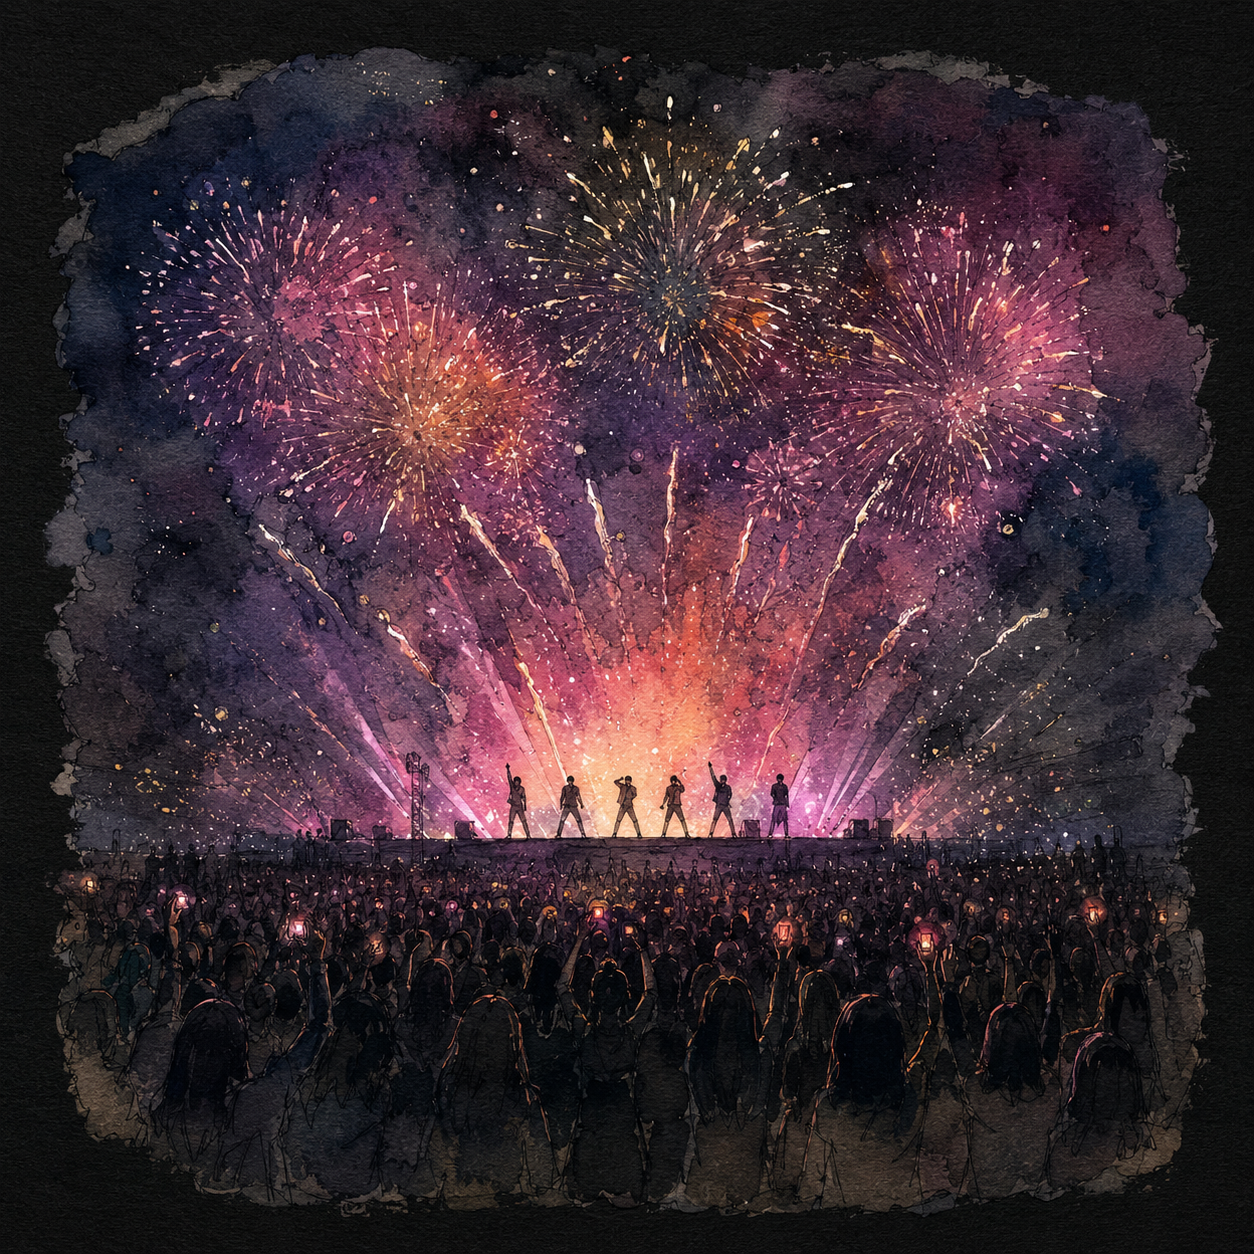
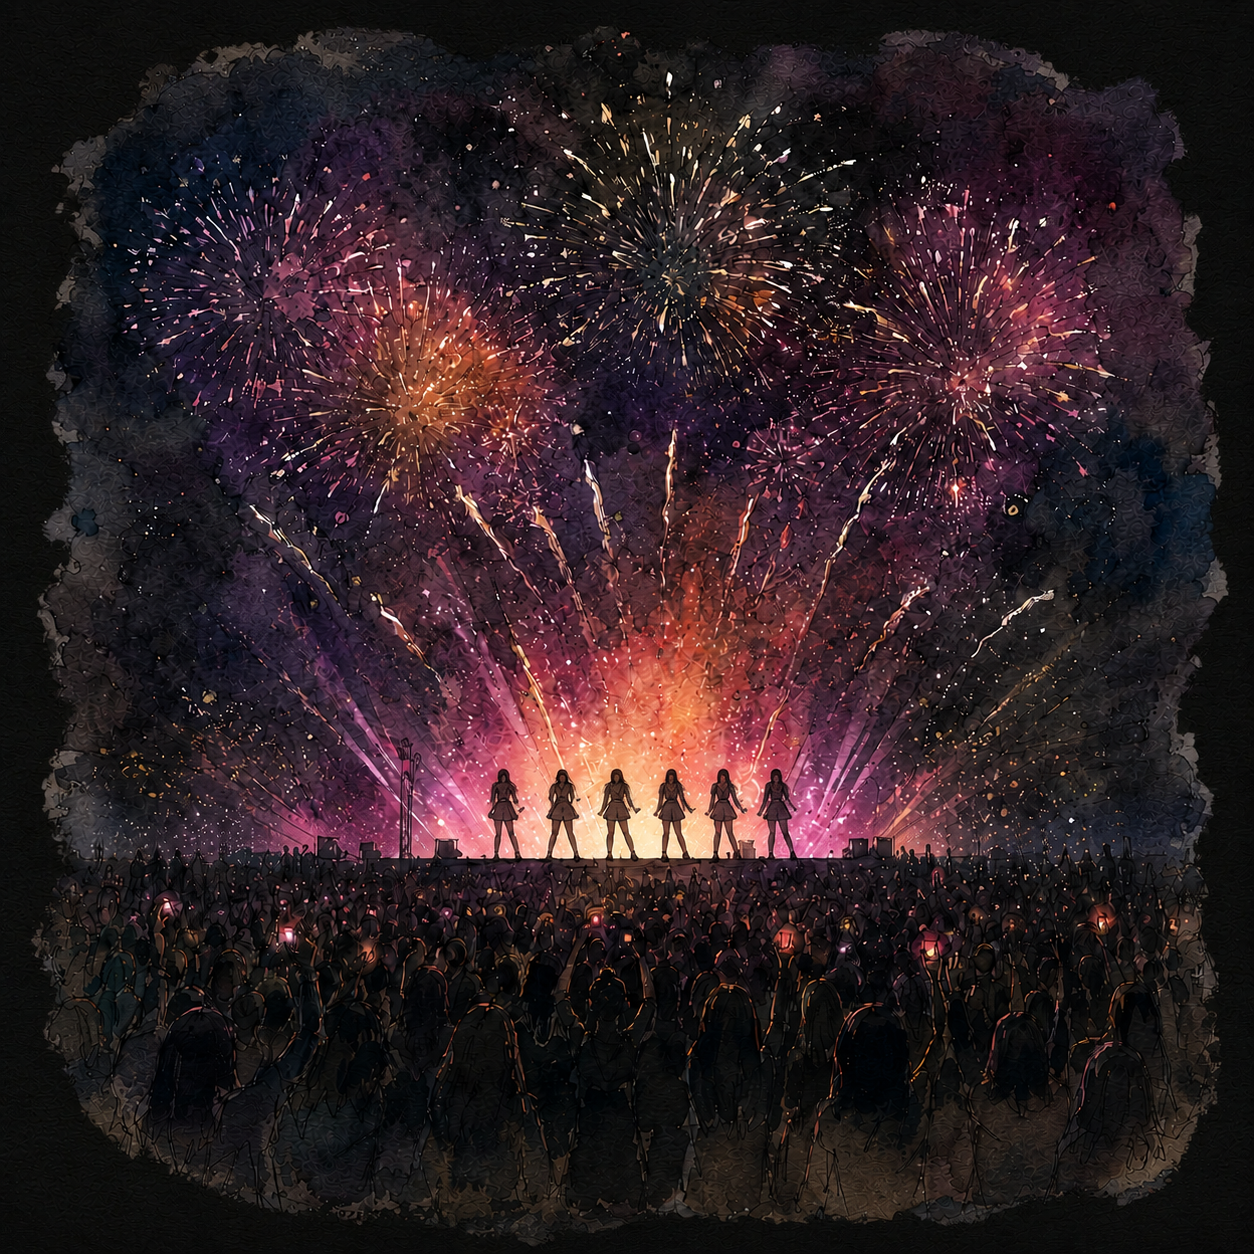
updated

diff --git a/_posts/2026-07-05-ive-part4-dominate.md b/_posts/2026-07-05-ive-part4-dominate.md
@@ -1,0 +1,260 @@
+---
+title: "IVE Part 4 — Rebel Heart: The Empire Builds"
+date: 2026-07-05
+categories: [K-Pop]
+tags: [k-pop, ive, dive, rebel-heart, ive-empathy, ive-secret, revive-plus, bang-bang, blackhole, daesang, show-what-i-am, wonyoung, yujin]
+description: "2025 was IVE's year of total domination — Rebel Heart swept every daesang in sight, album sales crossed 13 million, and 2026 brought Revive+, a second world tour, and an empire still growing. This is IVE at full power."
+image: /assets/img/posts/ive-part4-title.jpg
+featured: false
+---
+
+On January 13, 2025, IVE released a song called "Rebel Heart."
+
+Within days, it topped every major real-time chart in South Korea — their fifth Perfect All-Kill. By the end of the year, it had won Song of the Year at the Asia Artist Awards. It had won Global Trend Song at the MAMA Awards. It had been named one of Billboard's 25 Best K-Pop Songs of 2025.
+
+Then IVE released a second EP. Then a second studio album. Then launched a second world tour. Then announced a fan concert series.
+
+2025 and 2026 weren't a victory lap. They were an expansion.
+
+> 📌 **This is Part 4 of a 4-part IVE series.**
+> - [Part 1 — I Have Everything: The Origin Story](/posts/ive-part1-origin/)
+> - [Part 2 — Eleven Was Just the Beginning](/posts/ive-part2-rise/)
+> - [Part 3 — I Am Who I Am: The Artist Era](/posts/ive-part3-artist/)
+> - **Part 4 — Rebel Heart: The Empire Builds** ← you are here
+
+---
+
+## 🔥 "Rebel Heart" — The Song That Defined 2025 (January 13, 2025)
+
+![IVE Rebel Heart award ceremony atmosphere](/assets/img/posts/ive-part4-rebelheart.jpg)
+*"Rebel Heart" became IVE's most decorated single since "Love Dive" — sweeping year-end ceremonies and topping Billboard's K-pop best-of lists.*
+
+<cite index="24-1">On February 3, 2025, IVE released their third extended play *Ive Empathy*, supported by two singles: "Rebel Heart," which was pre-released on January 13, and "Attitude," which was released alongside the full EP.</cite>
+
+**"Rebel Heart"** is IVE at their most cinematic. Where "Love Dive" was fluid and seductive, and "I Am" was declarative and uplifting, "Rebel Heart" arrives with a darker, more complex energy — the sound of someone who has already proven themselves and is now choosing, freely, what comes next. The choreography is IVE's most ambitious to date: large-scale formations, dynamic spatial use, and a visual storytelling quality that made it one of 2025's most discussed performance pieces.
+
+<cite index="29-1">The song topped all real-time charts in South Korea and became their fifth song to achieve a Perfect All-Kill.</cite>
+
+Companion single **"Attitude"** also charted within the top 10 of the Circle Digital Chart — and collected multiple music show wins of its own, giving IVE two simultaneous charting singles in early 2025.
+
+### The *Ive Empathy* EP
+
+<cite index="24-1">*Ive Empathy* peaked at number 1 of the Circle Album Chart, making it their sixth album to reach number one and their fifth album to reach a million copies.</cite>
+
+Six albums. Six chart-toppers. All million-sellers. In three and a half years.
+
+[**▶ Watch IVE 'Rebel Heart' MV on YouTube**](https://www.youtube.com/results?search_query=IVE+Rebel+Heart+Official+MV)
+
+---
+
+## 🎪 Lollapalooza Berlin & Paris — Two Cities, One Historic Year (July 2025)
+
+Building on their 2024 Chicago Lollapalooza debut, IVE returned to the festival in 2025 — this time in Europe.
+
+<cite index="16-1">On July 12, IVE became the first K-pop girl group to perform live at the Berlin edition of the Lollapalooza music festival. The group went on to set another milestone by performing at the Paris edition of the festival on July 20, becoming the first K-pop girl group to perform at Lollapalooza in two consecutive years across three different cities.</cite>
+
+Chicago → Berlin → Paris. Three different cities. Three different audiences. The same result each time: a Western festival crowd that hadn't necessarily come for K-pop, won over.
+
+---
+
+## 📀 *Ive Secret* EP — The Second 2025 Release (August 2025)
+
+IVE didn't stop after "Rebel Heart."
+
+<cite index="16-1">On August 25, IVE released their fourth extended play *Ive Secret*, with the lead single "XOXZ." Upon release, the album peaked at number 1 of the Circle Album Chart, making it the group's seventh album to reach number one and their sixth million-seller.</cite>
+
+Seven albums. All #1. All million-sellers.
+
+In a single year — 2025 — IVE released two EPs, both peaked at #1, both certified million-sellers, and performed at Lollapalooza on two continents. That pace of output, at that level of quality, is what separated IVE from the rest of the 4th-generation field.
+
+---
+
+## 🏆 The 2025 Awards Sweep: "Rebel Heart" Dominates
+
+The year-end ceremony season of 2025 was IVE's most decorated since the "Love Dive" era of 2022.
+
+### Asia Artist Awards (AAA) — December 2025
+
+<cite index="25-1">IVE captured Song of the Year (Daesang) for "Rebel Heart."</cite>
+
+<cite index="27-1">Member Jang Won-young collected three individual awards: AAA Asia Celebrity (Singer), AAA Spotlight, and AAA Fabulous.</cite>
+
+### MAMA Awards — November 2025
+
+<cite index="31-1">IVE won Favorite Global Performer, Favorite Female Group, and Global Trend Song for "Rebel Heart."</cite>
+
+A triple crown at MAMA — three awards at the industry's most-watched ceremony — for a single promotional cycle.
+
+### Other Major 2025 Ceremony Wins
+
+| Ceremony | Award |
+|:---|:---|
+| 🏆 Asia Artist Awards | Song of the Year (Daesang) — "Rebel Heart" |
+| 🏆 Korea Grand Music Awards | Grand Song (Daesang) — "Rebel Heart" |
+| 🏆 K-World Dream Awards | K-World Best Artist (Daesang) |
+| MAMA Awards | Global Trend Song — "Rebel Heart" |
+| MAMA Awards | Favorite Female Group |
+| MAMA Awards | Favorite Global Performer |
+| The Fact Music Awards | Sound of the Year / Artist of the Year |
+| Golden Disc Awards | Best Digital Song / Best Album |
+
+<cite index="26-1">They didn't just meet expectations. They crushed them, picking up major honors that cemented their legacy, including two massive Daesangs for their powerful music.</cite>
+
+---
+
+## 📊 The Numbers: IVE's Full Cumulative Record (End of 2025)
+
+By the close of 2025, four years into their career, IVE's cumulative record looked like this:
+
+| Metric | Figure |
+|:---|:---|
+| Total album sales | 13M+ copies |
+| #1 albums (Circle) | 7 out of 7 releases |
+| Million-seller albums | 6 |
+| Perfect All-Kills | 5 |
+| Music show wins | 100+ |
+| Daesang wins (total) | 8+ across career |
+| Lollapalooza appearances | 3 (Chicago, Berlin, Paris) |
+| Tokyo Dome | Sold out (95,800 tickets in 10 seconds) |
+| IFPI global ranking | Top 10 female K-pop act, multiple years |
+
+Every single album they have released has gone to #1. Every one has sold over a million copies. That is a perfect record — maintained across four years and seven releases.
+
+---
+
+## 💄 Wonyoung & Yujin: Influencing Korea Beyond K-Pop
+
+<cite index="26-1">Wonyoung's high-fashion appearances sparked trends across social media, Yujin brought her signature cool-girl charisma to brand showings, and the group's magazine features showcased a visual identity that only grows sharper with each era.</cite>
+
+Within IVE, two members have built individual presences in Korean culture that go far beyond the group — crossing into territory usually reserved for veteran actors and national celebrities. Jang Wonyoung and An Yujin aren't just K-pop stars in Korea. They are simply stars.
+
+### Jang Wonyoung — The Face of a Generation
+
+Jang Wonyoung occupies a specific position in K-pop that very few performers ever reach: she is simultaneously a group member and a cultural force independent of the group. Her individual brand power — as a model, as a fashion presence, as the face of major campaigns — operates in parallel with IVE, amplifying both.
+
+In Korea, the measure of a celebrity's true mainstream reach is often found not in entertainment contracts, but in **financial advertising**. Banks and financial institutions invest heavily in research before choosing a model — they need someone trusted, aspirational, and universally recognized across all age groups.
+
+**Wonyoung is the face of Woori Bank** — one of Korea's four major commercial banks. Seeing a 22-year-old K-pop idol representing one of the country's largest financial institutions is a strong signal of how deeply she has embedded herself in mainstream Korean culture.
+
+Her full brand portfolio by 2025:
+
+| Brand | Category |
+|:---|:---:|
+| Miu Miu | Global fashion ambassador |
+| Woori Bank | Finance (one of Korea's Big 4 banks) |
+| Innisfree | Beauty (since debut year 2021) |
+| Samsung | Tech |
+| Pepsi | Beverage |
+| Multiple luxury labels | Magazine covers, campaign features |
+
+<cite index="27-1">At the 2025 Asia Artist Awards, Wonyoung collected three individual awards: AAA Asia Celebrity (Singer), AAA Spotlight, and AAA Fabulous</cite> — the most individual awards of any K-pop girl group member at the ceremony that year.
+
+In Korean pop culture, Wonyoung has reached the tier of IU — where the person transcends their genre and becomes simply famous. Someone whose face you recognize whether or not you listen to K-pop.
+
+In the current K-pop landscape, she is widely regarded as the **undisputed visual #1 among active idols** — a position that comes with both extraordinary adoration and a specific kind of backlash. Precisely because her looks are so frequently cited as unattainable, Wonyoung has been the target of significant online harassment and envy-driven attacks from detractors. She has addressed this publicly with characteristic composure — and DIVE has consistently rallied around her in response. The intensity of both the admiration and the criticism is, in its own way, a measure of how high she sits.
+
+Her appeal has a distinct demographic shape. Young women in their teens and twenties are drawn to her **doll-like, cat-featured face** — sharp, symmetrical, and almost surreally composed — and to the aspirational elegance she projects in every appearance. She is the kind of face that generates not just fandom but imitation: makeup tutorials, fashion references, aesthetic boards. In Korean beauty culture, Wonyoung is a category unto herself.
+
+### An Yujin — Charisma That Crosses Every Format
+
+Yujin's influence in Korea operates differently from Wonyoung's — less through visual iconography, more through personality and presence. She is one of the most naturally compelling people on Korean television, full stop.
+
+She has been MC of major music broadcast programs since 2022, which means she appears on national TV weekly — not as a performer, but as a host. That kind of sustained mainstream visibility, week after week, builds a different kind of familiarity than any album release can.
+
+In variety shows and talk programs, Yujin is the member who gets clipped and shared most — her timing, her wit, and the way she makes everyone around her more relaxed have made her a beloved figure across demographics that don't overlap neatly with K-pop fandoms.
+
+Where Wonyoung's appeal is rooted in visual perfection, Yujin's is rooted in personality. Her **warm, outgoing, puppy-like energy** — bright smile, unpretentious humor, the kind of easygoing directness that makes you feel like you've known her for years — has built her a fanbase that skews notably toward male audiences who might not otherwise follow K-pop closely. She is approachable in the way that Wonyoung is aspirational. Both are powerful positions to occupy — they simply pull from different places in the audience.
+
+Together, Wonyoung and Yujin cover an unusually wide demographic range for two members of the same group: the cat and the puppy, the icon and the friend, the untouchable and the familiar. The combination is one of IVE's most underrated structural advantages.
+
+And like Wonyoung, her mainstream reach is confirmed by the financial sector: **Yujin is the face of Hana Bank** — another of Korea's four major commercial banks.
+
+Two members of the same group. Two of Korea's four biggest banks. That is not a coincidence — it is a measure of how deeply IVE's top two members have penetrated the mainstream Korean public consciousness.
+
+| Member | Bank |
+|:---:|:---:|
+| Jang Wonyoung | 🏦 Woori Bank |
+| An Yujin | 🏦 Hana Bank |
+
+Between them, Wonyoung and Yujin represent a significant portion of the financial advertising landscape in Korea — appearing on billboards, TV commercials, and digital campaigns that reach audiences who have never deliberately sought out K-pop content. IVE finds its way to them anyway.
+
+---
+
+## 🎤 Members Beyond the Group
+
+IVE's individual members have built profiles that extend well beyond their group activities:
+
+**An Yujin** — MC of major music broadcasts since 2022, variety show regular, and Hana Bank ambassador. Her natural charisma in every format — performance, interview, hosting, advertising — has made her one of the most consistently beloved figures in Korean entertainment, not just K-pop.
+
+**Rei** — Her Japanese background has made her a cultural bridge to one of IVE's largest international markets. Her solo work and Japanese-language releases have developed a dedicated fanbase that crosses between Korean and Japanese pop audiences.
+
+**Gaeul** — The group's sharpest dancer, whose stage focus and technical precision anchor IVE's choreography in live performance. Increasingly visible as a fashion presence in her own right.
+
+**Liz** — Main vocalist who has grown visibly in confidence throughout IVE's run. Her piano introduction at the 2023 Melon Music Awards performance was one of the group's most memorable individual moments.
+
+**Leeseo** — The group's youngest and most spontaneous presence. Increasingly active as an MC and variety show personality in her own right.
+
+---
+
+## 🚀 2026: *Revive+* and the Second World Tour
+
+### *Revive+* — Second Studio Album (February 23, 2026)
+
+<cite index="36-1">IVE unveiled the album at a media showcase in Seoul, describing it as a moment of "re-ignition" ahead of the global leg of their "Show What I Am" tour.</cite>
+
+***Revive+*** is IVE's second full studio album — their first since *I've IVE* in 2023. It contains 12 tracks, including:
+
+- **"Bang Bang"** (pre-release, February 9) — <cite index="36-1">An electronic-leaning track carrying the message to "move forward without hesitation." Wonyoung, who co-wrote the lyrics, described wanting to "bring out IVE's confident charm."</cite>
+- **"Blackhole"** (lead single, February 23) — <cite index="36-1">Yujin described it as having "a cinematic mood that reminds listeners of the film 'Interstellar' — when performed onstage, it can really feel like being pulled into a black hole."</cite>
+- **Six member solo tracks** — each first performed at the *Show What I Am* concert in October 2025: Wonyoung's "8," Gaeul's "Odd," Leeseo's "Super Icy," Liz's "Unreal," Rei's "In Your Heart," and Yujin's "Force."
+
+<cite index="36-1">Yujin explained that the album title points to "rekindling" rather than starting from scratch: "'Revive+' means 'to rekindle' or 'to reignite.' It carries our hope to let the flame that burns in the name of IVE spread farther and wider."</cite>
+
+"Bang Bang" achieved a **Perfect All-Kill** — <cite index="34-1">IVE's sixth overall and first for 2026.</cite> It maintained a four-week streak at #1 on the Circle Digital Chart.
+
+### The Thematic Shift: From "I" to "We"
+
+*Revive+* marks a deliberate evolution in IVE's message. <cite index="36-1">The group described the album's biggest thematic shift as a move from a message centered on "I" to one that expands toward "we." Wonyoung added that the shift is meant to include "not only the members but also listeners who have grown with the group."</cite>
+
+IVE began their career declaring *I have everything*. Four and a half years later, they've expanded that declaration: *we have everything — and we're bringing you with us.*
+
+### Show What I Am World Tour (2025–2026)
+
+IVE's second world tour — *Show What I Am* — began in Seoul in October 2025 and is currently running through 2026, covering:
+
+- **Asia**: Seoul, Kuala Lumpur, Manila, Singapore, Macau, Hong Kong, Taipei, Tokyo
+- **North America**: Multiple US cities + Vancouver (through August 2026)
+- **Oceania**: Australia dates
+- **Fan concert series**: *DIVE into IVE* — a parallel intimate fan concert track running alongside the arena tour
+
+<cite index="39-1">"Bang Bang" achieved a Perfect All-Kill, marking their sixth overall and first for 2026. The track maintained a four-week streak at No. 1, while "Blackhole" also received critical acclaim, reflecting the group's musical growth.</cite>
+
+[**▶ Watch IVE 'Bang Bang' MV on YouTube**](https://www.youtube.com/results?search_query=IVE+Bang+Bang+Official+MV+2026)
+
+[**▶ Watch IVE 'Blackhole' MV on YouTube**](https://www.youtube.com/results?search_query=IVE+Blackhole+Official+MV+2026)
+
+---
+
+## 💭 What IVE Actually Built
+
+IVE debuted on December 1, 2021 as a group that arrived already complete — confident, polished, ready.
+
+Four and a half years later, looking at the full record: 13 million albums sold, seven #1 releases, six million-sellers, five Perfect All-Kills, Daesangs at every major ceremony, Tokyo Dome sold out in 10 seconds, Lollapalooza on three continents, a second world tour currently running — the strategy worked.
+
+But what's more interesting than the numbers is the narrative arc underneath them.
+
+IVE's albums tell a coherent story. From *I have everything* at debut, through *I am who I am* in the studio album era, through the expanding sense of identity in the EP cycle, and now to *Revive+*'s movement from "I" to "we" — there is a genuine artistic evolution happening, not just commercial accumulation.
+
+The group that debuted claiming completeness has spent four years proving it — and then growing past it.
+
+That's not something you can design in a practice room. That's something that happens when the right six people find their way to the same stage and stay there long enough to become something real.
+
+---
+
+## 🔗 Complete the Series
+
+- 👉 **[Part 1 — I Have Everything: The Origin Story](/posts/ive-part1-origin/)** — How six members found each other
+- 👉 **[Part 2 — Eleven Was Just the Beginning](/posts/ive-part2-rise/)** — The 2022 triple-hit miracle year
+- 👉 **[Part 3 — I Am Who I Am: The Artist Era](/posts/ive-part3-artist/)** — Studio album, world tour, Lollapalooza
+
+[**▶ Watch IVE full discography highlights on YouTube**](https://www.youtube.com/results?search_query=IVE+best+performances+2021+2026+highlights)